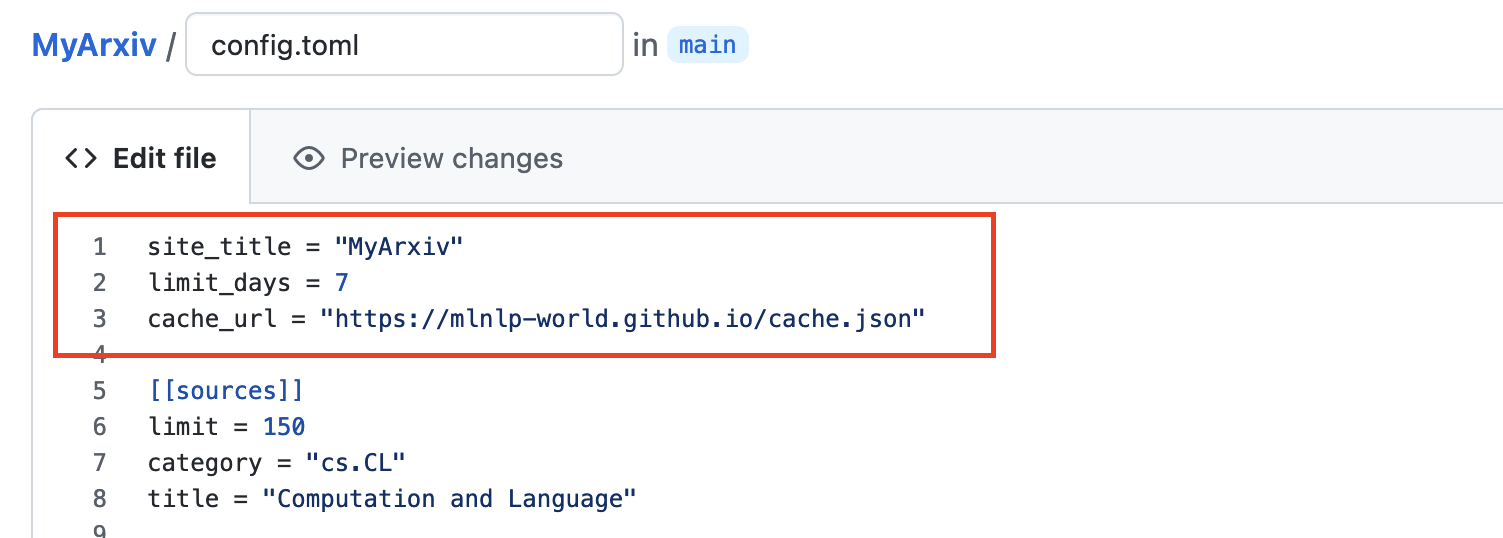
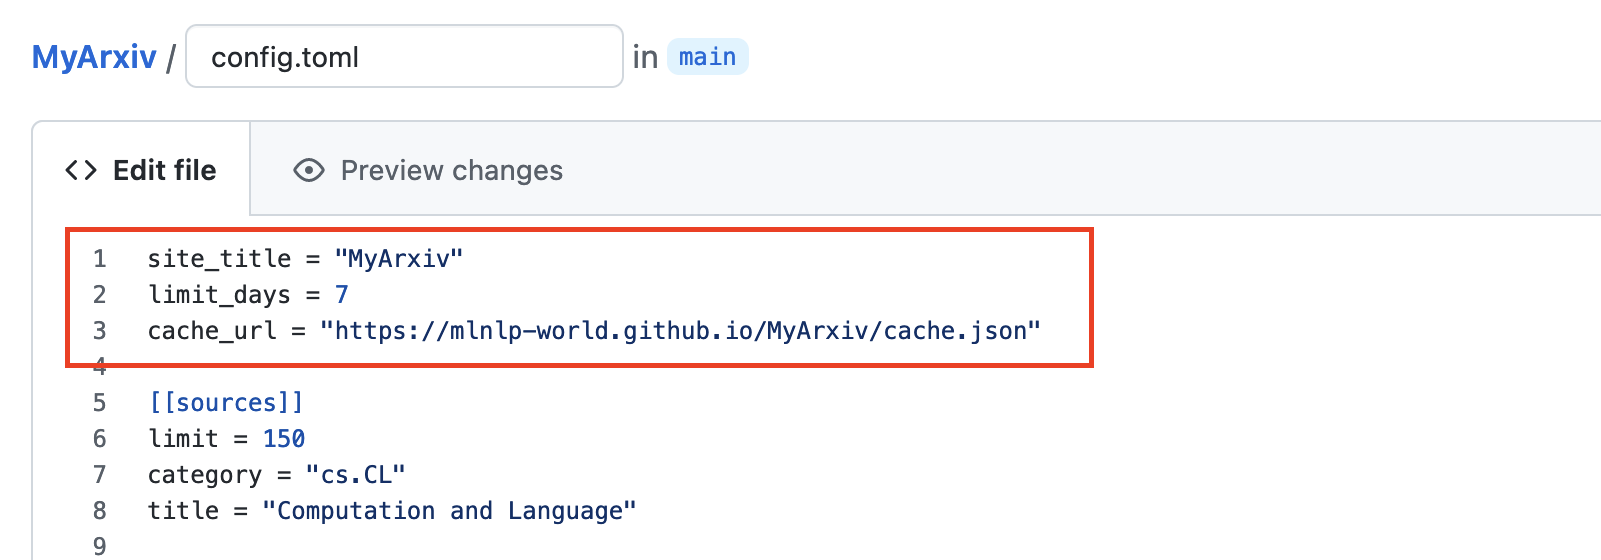
update tutorial

diff --git a/README.md b/README.md
@@ -30,7 +30,8 @@
   <a href="#项目简介">项目简介</a>/
   <a href="#项目预览">项目预览</a>/
   <a href="#使用说明">使用说明</a>/
-  <a href="#使用指南">使用指南</a>/
+  <a href="#快速上手指南">快速上手指南</a>/
+  <a href="#定制化指南">定制化指南</a>/
   <a href="#组织者">组织者</a>/
   <a href="#贡献者">贡献者</a>
 </p>
@@ -96,37 +97,21 @@
 - 实现了对于Latex公式的渲染。
 - 支持深色/浅色模式。
 
-## <img src="./imgs/icon/catalogue.png" width="25" />使用指南
+## <img src="./imgs/icon/catalogue.png" width="25" />快速上手指南
 
-使用MyArxiv实现个人定制的Arxiv，步骤如下：
+使用MyArxiv实现个人定制的Arxiv，使用默认设置快速上手，步骤如下：
 
 <details open="open">
-  <summary>Build Steps</summary>
+  <summary>Get Start</summary>
   <ul>
-    <li><a href="#getting-start"> ➤ 1.快速上手</a>
-      <ul>
-        <li><a href="#create-repo"> ➤ 1.1 建立仓库</a></li>
-        <li><a href="#modify-cachr-url"> ➤ 1.2 修改cachr url</a></li>
-        <li><a href="#github-pages-start"> ➤ 1.3 Github pages设置</a></li>
-      </ul>
-    </li>
-    <li>
-      <a href="#MyArxiv-customized-settings"> ➤ 2. MyArxiv定制化设置</a>
-      <ul>
-        <li><a href="#website-settings"> ➤ 2.1 托管网站设置</a></li>
-        <li><a href="#Arxiv-domain"> ➤ 2.2 Arxiv领域偏好设置 </a></li>
-        <li><a href="#highlight-scripts"> ➤ 2.3 高亮脚本设置 </a></li>
-        <li><a href="#workflow-settings"> ➤ 2.4 workflow设置 </a></li>
-        <li><a href="#MyArxiv-website-settings"> ➤ 2.5 MyArxiv网页设置 </a></li>
-        <li><a href="#Github-Pages-settings"> ➤ 2.6 Github Pages设置 </a></li>
-      </ul>
-    </li>
+       <li><a href="#create-repo"> ➤ 1. 建立仓库</a></li>
+       <li><a href="#modify-cachr-url"> ➤ 2. 修改cachr url</a></li>
+       <li><a href="#github-pages-start"> ➤ 3. Github pages设置</a></li>
   </ul>
 </details>
 
-<h3 id="getting-start">1.快速上手</h3>
+<h4 id="create-repo">1. 建立仓库</h4>
 
-<h4 id="create-repo">1.1 建立仓库</h4>
 当前MyArxiv仓库为模版仓库，当我们建立属于自己的MyArxiv时，需要从当前模版新建仓库到自己的Github账号下。
 
 <img src="./imgs/tutorial/1.1.1.png" style="zoom:50%;" />
@@ -135,13 +120,13 @@
 
 <img src="./imgs/tutorial/1.1.2.png" style="zoom:40%;" />
 
-<h4 id="modify-cachr-url">1.2 修改cachr url</h4>
+<h4 id="modify-cachr-url">2. 修改cachr url</h4>
 
 修改`config.toml`中文件中的`cache_url`设置（MyArxiv数据缓存地址，该地址设置与你托管当前项目的网站地址相关），将其对应的Github账户，从`MLNLP-World`修改为自己当前的账户，如下图所示：
 
 <img src="./imgs/tutorial/1.2.1.png" style="zoom:50%;" />
 
-<h4 id="github-pages-start">1.3 Github pages设置</h4>
+<h4 id="github-pages-start">3. Github pages设置</h4>
 
 进入当前Repo对应的Settings后，进入Pages页面，设置`Branch`为`gh-pages`分支。
 
@@ -151,9 +136,23 @@
 
 <img src="./imgs/tutorial/1.3.2.png" style="zoom:40%;" />
 
-<h3 id="MyArxiv-customized-settings">2. MyArxiv定制化设置</h3>
+## <img src="./imgs/icon/cog.png" width="25" />定制化指南
+
 MyArxiv是高度可定制化的，使用者可以根据自己的实际需求进行更改，实现个性化定制，如下内容对于可定制化的部分进行说明。
-<h4 id="website-settings">2.1 托管网站设置</h4>
+
+<details open="open">
+  <summary>Build Steps</summary>
+  <ul>
+        <li><a href="#website-settings"> ➤ 1. 托管网站设置</a></li>
+        <li><a href="#Arxiv-domain"> ➤ 2. Arxiv领域偏好设置 </a></li>
+        <li><a href="#highlight-scripts"> ➤ 3. 高亮脚本设置 </a></li>
+        <li><a href="#workflow-settings"> ➤ 4. workflow设置 </a></li>
+        <li><a href="#MyArxiv-website-settings"> ➤ 5. MyArxiv网页设置 </a></li>
+        <li><a href="#Github-Pages-settings"> ➤ 6. Github Pages设置 </a></li>
+  </ul>
+</details>
+
+<h4 id="website-settings">1. 托管网站设置</h4>
 
 `config.toml`配置文件中，个人网站相关设置部分如下图所示：
 
@@ -175,7 +174,7 @@ cache_url = "https://mlnlp-world.github.io/MyArxiv/cache.json"
   - 若使用默认的Github Pages，那么会在`username.github.io`域名上托管该项目，项目具体地址为`username.github.io/reponame`，就要将`cache_url`设置为`username.github.io/reponame/cache.json`。
   - 若使用其他域名`yourarxivdomain`托管该项目，则要将`cache_url`使用对应的网址进行替换，设置为`yourarxivwebsite/cache.json`。
 
-<h4 id="Arxiv-domain">2.2 Arxiv领域偏好设置</h4>
+<h4 id="Arxiv-domain">2. Arxiv领域偏好设置</h4>
 
 `config.toml`配置文件中，Arxiv领域偏好设置部分如下图所示：
 
@@ -196,7 +195,7 @@ title = "Computation and Language"
 
 上述设置为一个Arxiv领域对应的设置单元样例，默认设置涵盖NLP研究者主要关注的Arxiv中`cs.CL`、`cs.CV`、`cs.IR`、`cs.LG`以及`cs.MM`领域，使用者可以根据自己的研究偏好参照上述说明进行更改。
 
-<h4 id="highlight-scripts">2.3 高亮脚本设置</h4>
+<h4 id="highlight-scripts">3. 高亮脚本设置</h4>
 
 `config.toml`配置文件中，高亮脚本设置部分如下图所示：
 
@@ -217,15 +216,14 @@ highlight_conference = "scripts/highlight_conference.rhai"
 
 在`./scripts/config.rhai`中，定制化改动如下：
 
-- `let titles = titles_area + titles_model + titles_method + titles_type;`：标题的高亮由***领域***、***模型***、***方法***以及***类型***四部分组成：
-  - `let titles_area = ["Translation", "Dialogue"];`：添加需要高亮的文章领域信息；
+- `let titles = titles_model + titles_method + titles_type;`：标题的高亮可以自定义其内容，默认由***模型***、***方法***以及***类型***三部分组成：
   - `let titles_type = ["Dataset", "Survey"];`：添加需要高亮的文章类型；
   - `let titles_model = ["BERT", "GPT", "Transformer"];`添加需要高亮的文章模型信息；
-  - `let titles_method = ["Contrastive Learning", "Prompt"];`添加需要高亮的文章方法信息；
-- `let authors_array = [Kaiming He", "Graham Neubig"];`添加需要高亮的作者信息；
+  - `let titles_method = ["Pre-train", "Pretrain", "Prompt", "Self-Supervised"];`添加需要高亮的文章方法信息；
+- `let authors_array = ["Yann LeCun", "Geoffrey Hinton", "Yoshua Bengio"];`添加需要高亮的作者信息；
 - `let conferences = [];` 高亮的会议列表，默认包含了当前AI领域的大部分主流会议信息；
 
-<h4 id="workflow-settings">2.4 workflow设置</h4>
+<h4 id="workflow-settings">4. workflow设置</h4>
 
 workflow设置位于文件`./.github/workflows/update-feed.yml`中：
 
@@ -237,7 +235,7 @@ workflow设置位于文件`./.github/workflows/update-feed.yml`中：
 
 - `- cron: "12 5 * * *"`：对Workflow运行的时间进行设置，即对MyArxiv每天更新的时间进行设置，*可以参考[crontab](https://crontab.guru/)，对时间进行调整*。
 
-<h4 id="MyArxiv-website-settings">2.5 MyArxiv网页设置</h4>
+<h4 id="MyArxiv-website-settings">5. MyArxiv网页设置</h4>
 
 完成MyArxiv个性定制化后，下面进行网页显示的修改，主要修改目标文件为`./includes/index.hbs`，使用者可以根据自己的风格喜好对网页格式进行各类更改，如下提供两个更改样例:
 
@@ -293,7 +291,7 @@ workflow设置位于文件`./.github/workflows/update-feed.yml`中：
 
 配置修改完成，将上述更改提交至个人的Github仓库。
 
-<h4 id="Github-Pages-settings">2.6 Github Pages设置</h4>
+<h4 id="Github-Pages-settings">6. Github Pages设置</h4>
 
 在完成上述定制后，需要对个人的MyArxiv库Github Pages进行设置，将项目进行托管：
 
